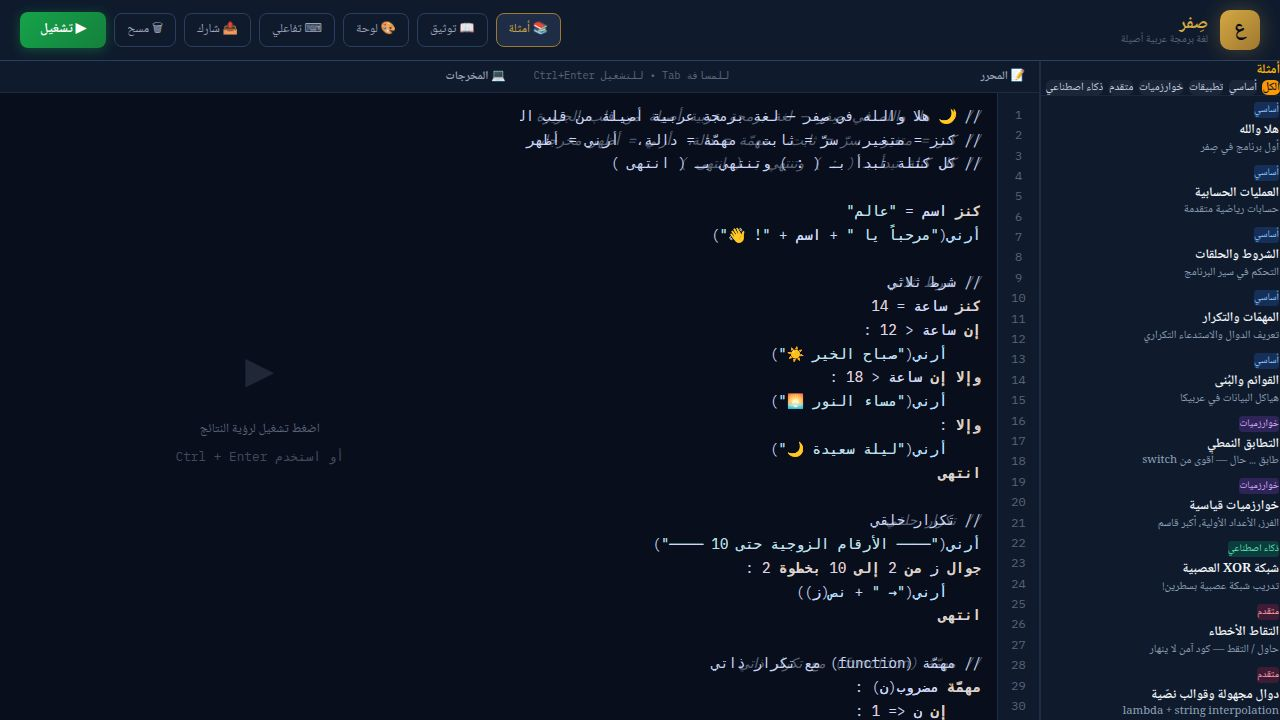
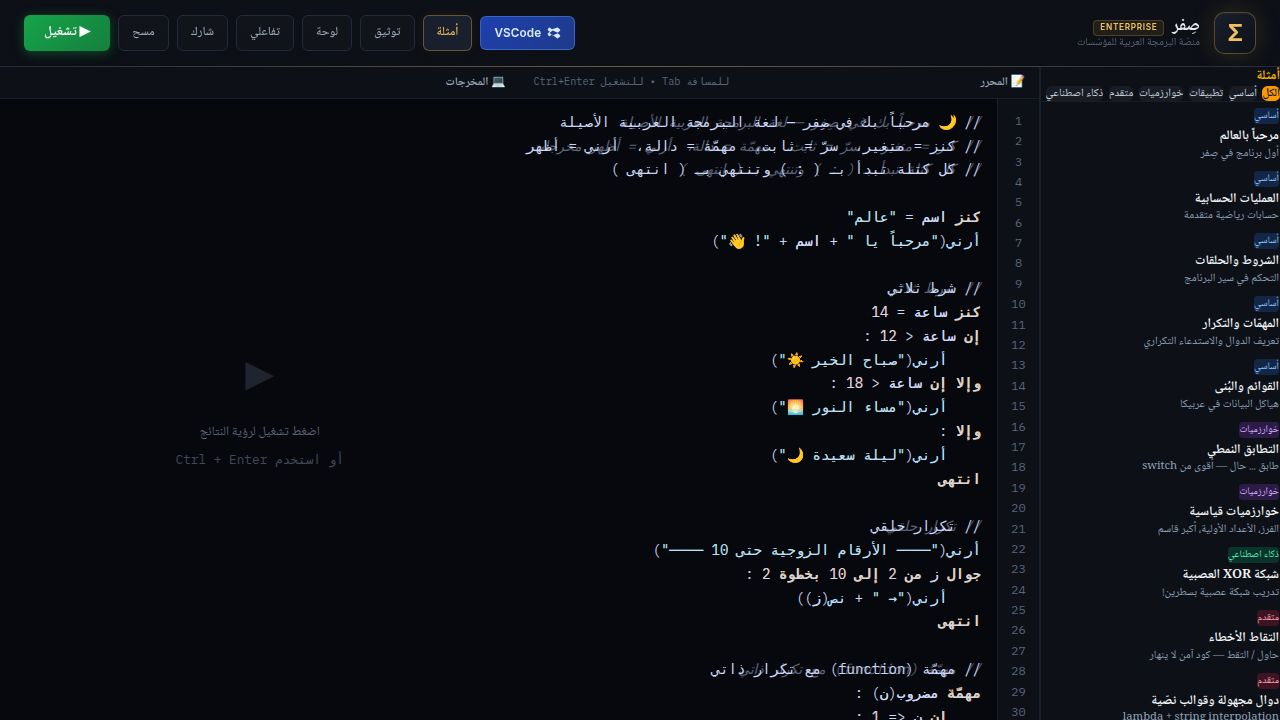
Add a complete personal website builder example to the platform
Update Playground.tsx to include browser chrome UI for the canvas pane, add browser chrome styles to index.css, and add a new 'website-builder' example to ExamplesPanel.tsx.

Replit-Commit-Author: Agent
Replit-Commit-Session-Id: cdbbaa7e-2793-49ef-bb2e-aadf57b89307
Replit-Commit-Checkpoint-Type: full_checkpoint
Replit-Commit-Event-Id: 7e6ecaf7-f8c3-4dd7-bcd0-fe43d4f26b61
Replit-Commit-Screenshot-Url: https://storage.googleapis.com/screenshot-production-us-central1/58cbe37b-897a-482c-a67b-d36554f37383/cdbbaa7e-2793-49ef-bb2e-aadf57b89307/THLbLOs
Replit-Helium-Checkpoint-Created: true

diff --git a/artifacts/arabica-lang/src/components/ExamplesPanel.tsx b/artifacts/arabica-lang/src/components/ExamplesPanel.tsx
@@ -681,6 +681,186 @@ export const EXAMPLES: Example[] = [
 `
   },
   {
+    id: 'website-builder',
+    title: '🌐 موقع شخصي كامل',
+    description: 'ابنِ موقعك بالكود — navbar + hero + بطاقات + footer',
+    category: 'تطبيقات',
+    code: `// 🌐 موقع شخصي كامل — مكتوب بلغة صِفر
+// افتح «لوحة المعاينة» لترى الموقع يبنى أمامك!
+// ══════════════════════════════════════════
+
+امسح_اللوحة()
+
+// ─── الألوان ───
+ثابت أزرق   = "#2563eb"
+ثابت أبيض   = "#ffffff"
+ثابت فاتح   = "#f8fafc"
+ثابت رمادي  = "#64748b"
+ثابت داكن   = "#0f172a"
+ثابت أخضر   = "#10b981"
+
+// ════════════════════════════════
+// 1) شريط التنقّل
+// ════════════════════════════════
+قيمة شعار = نص_عنصر("🌙 موقعي", "span")
+أنماط(شعار، { حجم_خط: "20px"، سماكة: "bold"، لون: أبيض })
+
+قيمة روابط = صف(
+  نص_عنصر("الرئيسية", "a")،
+  نص_عنصر("مشاريع", "a")،
+  نص_عنصر("تواصل", "a")
+)
+أنماط(روابط، { gap: "20px" })
+جوال رابط في [روابط.children[0]، روابط.children[1]، روابط.children[2]] :
+  أنماط(رابط، { لون: "#cbd5e1"، cursor: "pointer"، fontSize: "15px" })
+انتهى
+
+قيمة شريط = صف(شعار، روابط)
+أنماط(شريط، {
+  خلفية: أزرق، حشو: "14px 28px"،
+  justifyContent: "space-between"، alignItems: "center"،
+  عرض: "100%"، boxSizing: "border-box"
+})
+
+// ════════════════════════════════
+// 2) قسم الترحيب (Hero)
+// ════════════════════════════════
+قيمة عنوان_رئيسي = عنوان("مرحباً، أنا مطوّر ويب 👋"، 1)
+أنماط(عنوان_رئيسي، {
+  لون: داكن، محاذاة: "center"، هامش: "0 0 12px"، fontSize: "32px"
+})
+
+قيمة وصف_رئيسي = فقرة("أبني مواقع وتطبيقات رائعة — سريعة وجميلة ومتجاوبة")
+أنماط(وصف_رئيسي، { لون: رمادي، محاذاة: "center"، fontSize: "17px" })
+
+قيمة زر_تواصل = زر("📬 تواصل معي")
+أنماط(زر_تواصل، { خلفية: أزرق، fontSize: "15px"، حشو: "11px 32px"، دائرية: "8px" })
+
+قيمة زر_مشاريع = زر("🚀 مشاريعي")
+أنماط(زر_مشاريع، { خلفية: "transparent"، لون: أزرق، حدود: "2px solid " + أزرق، fontSize: "15px"، حشو: "9px 28px" })
+
+قيمة أزرار_بطل = صف(زر_تواصل، زر_مشاريع)
+أنماط(أزرار_بطل، { justifyContent: "center"، هامش: "8px 0 0" })
+
+قيمة قسم_بطل = حاوية(عنوان_رئيسي، وصف_رئيسي، أزرار_بطل)
+أنماط(قسم_بطل، {
+  خلفية: فاتح، حشو: "56px 24px"،
+  alignItems: "center"، borderBottom: "1px solid #e2e8f0"
+})
+
+// ════════════════════════════════
+// 3) بطاقات المهارات
+// ════════════════════════════════
+دالة بطاقة(أيقونة، عنوان_ب، نص_ب، لون_ب) :
+  قيمة أيق = نص_عنصر(أيقونة، "div")
+  أنماط(أيق، { fontSize: "38px"، محاذاة: "center"، هامش: "0 0 10px" })
+
+  قيمة عن = عنوان(عنوان_ب، 3)
+  أنماط(عن، { محاذاة: "center"، لون: داكن، هامش: "0 0 6px"، fontSize: "17px" })
+
+  قيمة نص_ك = فقرة(نص_ب)
+  أنماط(نص_ك، { محاذاة: "center"، لون: رمادي، fontSize: "14px"، هامش: "0" })
+
+  قيمة شريط_لون = نص_عنصر("", "div")
+  أنماط(شريط_لون، { خلفية: لون_ب، ارتفاع: "4px"، دائرية: "4px 4px 0 0" })
+
+  قيمة بط = حاوية(شريط_لون، أيق، عن، نص_ك)
+  أنماط(بط، {
+    خلفية: أبيض، دائرية: "12px"، حشو: "0 20px 20px"،
+    ظل: "0 2px 16px rgba(0,0,0,0.07)"، flex: "1"، minWidth: "150px"،
+    حدود: "1px solid #f1f5f9"، overflow: "hidden"
+  })
+  أرجع بط
+نهاية
+
+قيمة عنوان_مهارات = عنوان("ماذا أقدّم؟", 2)
+أنماط(عنوان_مهارات، { محاذاة: "center"، لون: داكن، هامش: "0 0 4px" })
+
+قيمة وصف_مهارات = فقرة("ثلاثة محاور أساسية في عملي")
+أنماط(وصف_مهارات، { محاذاة: "center"، لون: رمادي، هامش: "0 0 24px" })
+
+قيمة بطاقات = صف(
+  بطاقة("⚡"، "سريع"،     "أداء عالٍ وتجربة سلسة بلا تأخير"،     "#f59e0b")،
+  بطاقة("🎨"، "جميل"،     "تصاميم أنيقة تجذب العين وتُبهج"،       "#8b5cf6")،
+  بطاقة("📱"، "متجاوب"، "يعمل بشكل مثالي على كل الأجهزة"،        أخضر)
+)
+أنماط(بطاقات، {
+  حشو: "0 24px"، alignItems: "stretch"،
+  flexWrap: "wrap"، gap: "16px"، justifyContent: "center"
+})
+
+قيمة قسم_مهارات = حاوية(عنوان_مهارات، وصف_مهارات، بطاقات)
+أنماط(قسم_مهارات، { حشو: "40px 0"، خلفية: فاتح })
+
+// ════════════════════════════════
+// 4) قسم المشاريع
+// ════════════════════════════════
+دالة مشروع(اسم_م، وصف_م، تقنيات_م، لون_م) :
+  قيمة عن = عنوان(اسم_م، 4)
+  أنماط(عن، { لون: داكن، هامش: "0 0 6px"، fontSize: "16px" })
+
+  قيمة وصف = فقرة(وصف_م)
+  أنماط(وصف، { لون: رمادي، fontSize: "13px"، هامش: "0 0 12px" })
+
+  قيمة تق = نص_عنصر(تقنيات_م، "span")
+  أنماط(تق، {
+    خلفية: لون_م + "20"، لون: لون_م، حشو: "3px 10px"،
+    دائرية: "20px"، fontSize: "12px"، سماكة: "600"
+  })
+
+  قيمة زر_م = زر("عرض ←")
+  أنماط(زر_م، { خلفية: لون_م، fontSize: "13px"، حشو: "6px 16px" })
+
+  قيمة بط = حاوية(عن، وصف، صف(تق، زر_م))
+  أنماط(بط، {
+    خلفية: أبيض، دائرية: "10px"، حشو: "20px"،
+    ظل: "0 2px 12px rgba(0,0,0,0.06)"، حدود: "1px solid #e2e8f0"،
+    flex: "1"، minWidth: "180px"
+  })
+  أرجع بط
+نهاية
+
+قيمة عنوان_مشاريع = عنوان("🚀 مشاريعي الأخيرة", 2)
+أنماط(عنوان_مشاريع، { محاذاة: "center"، لون: داكن، هامش: "0 0 4px" })
+
+قيمة وصف_مشاريع = فقرة("أحدث ما بنيته بلغة صِفر")
+أنماط(وصف_مشاريع، { محاذاة: "center"، لون: رمادي، هامش: "0 0 24px" })
+
+قيمة المشاريع = صف(
+  مشروع("متجر عربي"،    "منصة تسوّق بكامل ميزاتها"،     "صِفر + ذكاء اصطناعي"، أزرق)،
+  مشروع("لوحة تحكّم"، "إحصاءات وتقارير تفاعلية"،      "صِفر + DOM"،           "#8b5cf6")،
+  مشروع("دردشة فوريّة"، "محادثات مشفّرة بين المستخدمين"، "صِفر + شبكة"،          أخضر)
+)
+أنماط(المشاريع، {
+  حشو: "0 24px"، flexWrap: "wrap"،
+  gap: "16px"، justifyContent: "center"، alignItems: "stretch"
+})
+
+قيمة قسم_مشاريع = حاوية(عنوان_مشاريع، وصف_مشاريع، المشاريع)
+أنماط(قسم_مشاريع، { حشو: "40px 0"، خلفية: أبيض })
+
+// ════════════════════════════════
+// 5) الذيل (Footer)
+// ════════════════════════════════
+قيمة ذيل_نص = نص_عنصر("صُنع بـ ❤  و  صِفر — لغة البرمجة العربية الأصيلة", "p")
+أنماط(ذيل_نص، { لون: "#94a3b8"، محاذاة: "center"، هامش: "0 0 4px"، fontSize: "14px" })
+
+قيمة ذيل_حقوق = نص_عنصر("© 2025 — جميع الحقوق محفوظة", "p")
+أنماط(ذيل_حقوق، { لون: "#475569"، محاذاة: "center"، هامش: "0"، fontSize: "12px" })
+
+قيمة ذيل = حاوية(ذيل_نص، ذيل_حقوق)
+أنماط(ذيل، {
+  خلفية: داكن، حشو: "28px 24px"، alignItems: "center"
+})
+
+// ════════════════════════════════
+// التجميع النهائي
+// ════════════════════════════════
+أضف(لوحة()، شريط، قسم_بطل، قسم_مهارات، قسم_مشاريع، ذيل)
+أرني("✓ الموقع جاهز في لوحة المعاينة! 🌐")
+`
+  },
+  {
     id: 'inheritance',
     title: '🧬 الوراثة في البُنى',
     description: 'بنية ابن ترث من بنية أب',

diff --git a/artifacts/arabica-lang/src/pages/Playground.tsx b/artifacts/arabica-lang/src/pages/Playground.tsx
@@ -264,10 +264,22 @@ export default function Playground() {
         {showCanvas && (
           <div className="canvas-pane">
             <div className="pane-header">
-              <span className="pane-title">🎨 لوحة المعاينة</span>
+              <span className="pane-title">🌐 المتصفّح</span>
               <button className="btn-tiny" onClick={() => { if (canvasRef.current) canvasRef.current.innerHTML = ''; }}>
                 مسح
               </button>
+            </div>
+            <div className="browser-chrome">
+              <div className="browser-dots">
+                <span className="browser-dot browser-dot-red" />
+                <span className="browser-dot browser-dot-yellow" />
+                <span className="browser-dot browser-dot-green" />
+              </div>
+              <div className="browser-url-bar">
+                <span className="browser-url-icon">🔒</span>
+                <span className="browser-url-text">موقعي.صفر</span>
+              </div>
+              <div style={{ width: 52 }} />
             </div>
             <div ref={canvasRef} className="canvas-surface" dir="rtl" />
           </div>

diff --git a/artifacts/arabica-lang/src/index.css b/artifacts/arabica-lang/src/index.css
@@ -730,3 +730,47 @@ html, body {
   color: #fff;
   border-color: var(--accent);
 }
+
+/* ===== BROWSER CHROME ===== */
+.browser-chrome {
+  display: flex;
+  align-items: center;
+  gap: 10px;
+  padding: 7px 12px;
+  background: #e8eaed;
+  border-bottom: 1px solid #d1d5db;
+  flex-shrink: 0;
+}
+.browser-dots {
+  display: flex;
+  gap: 6px;
+  align-items: center;
+  flex-shrink: 0;
+}
+.browser-dot {
+  width: 12px;
+  height: 12px;
+  border-radius: 50%;
+  display: inline-block;
+}
+.browser-dot-red    { background: #ff5f57; }
+.browser-dot-yellow { background: #febc2e; }
+.browser-dot-green  { background: #28c840; }
+.browser-url-bar {
+  flex: 1;
+  display: flex;
+  align-items: center;
+  gap: 6px;
+  background: #fff;
+  border: 1px solid #d1d5db;
+  border-radius: 20px;
+  padding: 3px 12px;
+  font-size: 12px;
+  color: #374151;
+  font-family: var(--font-arabic);
+  direction: rtl;
+  cursor: text;
+  box-shadow: inset 0 1px 2px rgba(0,0,0,0.06);
+}
+.browser-url-icon { font-size: 11px; flex-shrink: 0; }
+.browser-url-text { color: #1d4ed8; font-weight: 500; letter-spacing: 0.01em; }
